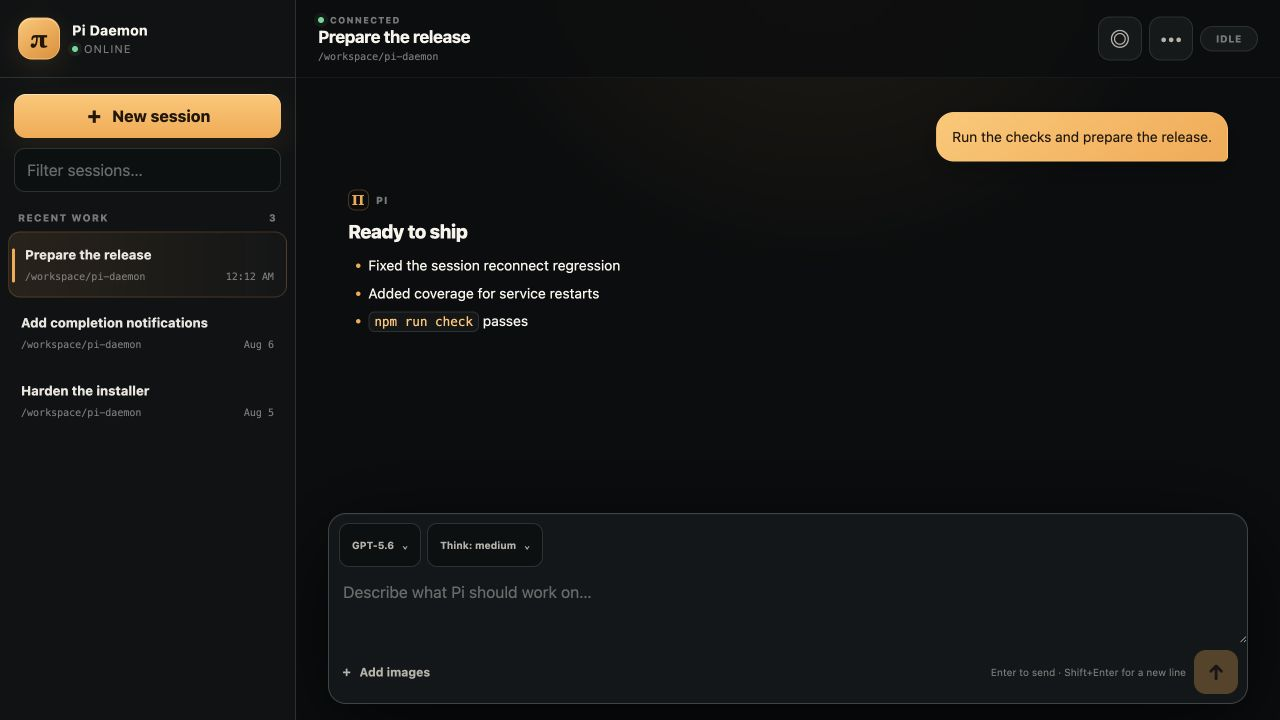
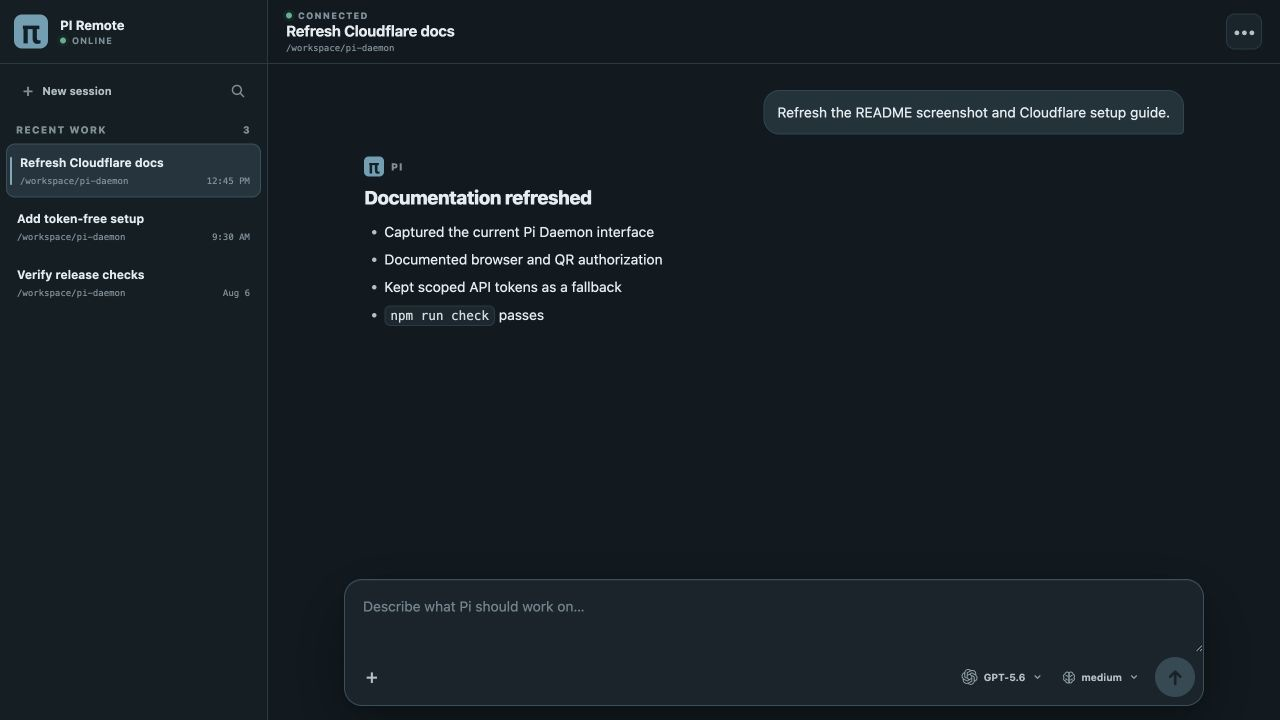
release: prepare v0.1.19

diff --git a/src/cloudflare.ts b/src/cloudflare.ts
@@ -228,6 +228,7 @@ export class CloudflareClient {
   }
 
   private async request<T = unknown>(path: string, init: RequestInit = {}): Promise<T> {
+    const method = init.method || "GET";
     const response = await this.fetcher(`${API_BASE}${path}`, {
       ...init,
       headers: {
@@ -240,11 +241,11 @@ export class CloudflareClient {
     try {
       envelope = await response.json() as ApiEnvelope<T>;
     } catch {
-      throw new CloudflareApiError(response.status, `Cloudflare API returned ${response.status}`);
+      throw new CloudflareApiError(response.status, `${method} ${path}: Cloudflare API returned ${response.status}`);
     }
     if (!response.ok || !envelope.success) {
       const message = envelope.errors?.map((item) => item.message).filter(Boolean).join("; ") || `Cloudflare API returned ${response.status}`;
-      throw new CloudflareApiError(response.status, message);
+      throw new CloudflareApiError(response.status, `${method} ${path}: ${message}`);
     }
     return envelope.result;
   }

diff --git a/test/cloudflare-oauth.test.ts b/test/cloudflare-oauth.test.ts
@@ -60,11 +60,13 @@ describe("Cloudflare OAuth", () => {
       clientId: "eb36f8ba635473b58f875d14bd8656ac",
       relayUrl: "https://pi-daemon-oauth-relay.sasuke688848.workers.dev",
       redirectUri: "https://pi-daemon-oauth-relay.sasuke688848.workers.dev/callback",
+      scopes: ["dns.write", "zone.read", "zone-access.write", "access-acct.write", "argotunnel.write", "account-settings.read"],
     });
     expect(cloudflareOAuthConfig({ PI_DAEMON_CLOUDFLARE_OAUTH_CLIENT_ID: "client" })).toEqual({
       clientId: "client",
       relayUrl: "https://pi-daemon-oauth-relay.sasuke688848.workers.dev",
       redirectUri: "https://pi-daemon-oauth-relay.sasuke688848.workers.dev/callback",
+      scopes: ["dns.write", "zone.read", "zone-access.write", "access-acct.write", "argotunnel.write", "account-settings.read"],
     });
     expect(() => cloudflareOAuthConfig({
       PI_DAEMON_CLOUDFLARE_OAUTH_CLIENT_ID: "client",

diff --git a/src/cloudflare-oauth.ts b/src/cloudflare-oauth.ts
@@ -47,7 +47,10 @@ export function cloudflareOAuthConfig(environment: NodeJS.ProcessEnv = process.e
   const parsedRelay = new URL(relayUrl as string);
   const parsedRedirect = new URL(redirectUri as string);
   if (parsedRelay.protocol !== "https:" || parsedRedirect.protocol !== "https:") throw new Error("Cloudflare OAuth URLs must use HTTPS");
-  const scopes = environment.PI_DAEMON_CLOUDFLARE_OAUTH_SCOPES?.split(/\s+/).filter(Boolean);
+  const configuredScopes = environment.PI_DAEMON_CLOUDFLARE_OAUTH_SCOPES?.trim();
+  const scopes = configuredScopes
+    ? configuredScopes.split(/\s+/).filter(Boolean)
+    : [...CLOUDFLARE_OAUTH_DEFAULTS.scopes];
   return {
     clientId: clientId as string,
     relayUrl: parsedRelay.toString().replace(/\/$/, ""),

diff --git a/test/cloudflare.test.ts b/test/cloudflare.test.ts
@@ -37,7 +37,7 @@ describe("Cloudflare provisioning", () => {
     };
 
     await expect(new CloudflareClient("api-token-secret", fetcher).checkSetupAccess("account-id", "zone-id"))
-      .rejects.toThrow("API token cannot access Access applications: failed");
+      .rejects.toThrow("API token cannot access Access applications: GET /accounts/account-id/access/apps?per_page=5: failed");
   });
 
   it("creates an exact-email OTP policy and token-file-compatible tunnel", async () => {

diff --git a/src/cloudflare-oauth-defaults.ts b/src/cloudflare-oauth-defaults.ts
@@ -7,4 +7,12 @@ export const CLOUDFLARE_OAUTH_DEFAULTS = {
   clientId: "eb36f8ba635473b58f875d14bd8656ac",
   relayUrl: "https://pi-daemon-oauth-relay.sasuke688848.workers.dev",
   redirectUri: "https://pi-daemon-oauth-relay.sasuke688848.workers.dev/callback",
+  scopes: [
+    "dns.write",
+    "zone.read",
+    "zone-access.write",
+    "access-acct.write",
+    "argotunnel.write",
+    "account-settings.read",
+  ],
 } as const;

diff --git a/src/version.ts b/src/version.ts
@@ -1,4 +1,4 @@
-export const VERSION = "0.1.18";
+export const VERSION = "0.1.19";
 export const PROTOCOL_VERSION = 1 as const;
 export const PI_VERSION = "0.84.1";
 export const CLOUDFLARED_VERSION = "2026.7.3";

diff --git a/README.md b/README.md
@@ -4,6 +4,8 @@ Pi Daemon runs the [Pi coding agent](https://github.com/earendil-works/pi) in a 
 
 ![Pi Daemon web interface](.github/assets/pi-daemon-web.jpg)
 
+_Current desktop layout. On mobile, the same session list is available from a drawer._
+
 > **Security:** An authenticated mobile user can invoke Pi's coding tools, execute commands, and modify files without per-action confirmation. Limit access to the intended Tailscale login or Cloudflare email, protect that identity, and do not run the service on a machine you are unwilling to control remotely.
 
 ## One-line installation
@@ -56,15 +58,48 @@ pi-daemon uninstall --delete-cloudflare
 
 The default uninstall removes Pi Daemon services and runtime configuration, and disables the Pi Daemon Tailscale Serve listener when it is active. It preserves `~/.pi/agent` authentication and sessions and leaves Cloudflare resources intact. If reinstall choices were saved, uninstall asks whether to preserve or forget them. Deleting Cloudflare resources requires the explicit flag, confirmation, and a fresh browser authorization.
 
-## Tailscale Serve (recommended for private access)
+## Cloudflare Tunnel (default)
 
-Install Tailscale separately and sign in on both the Pi Daemon host and the device that will open the PWA. During `pi-daemon setup`, choose **Tailscale Serve** and confirm the exact Tailscale login allowed to use Pi Daemon. The wizard detects the host's MagicDNS name and configures a persistent HTTPS listener on port 443 forwarding to `http://127.0.0.1:8504`.
+Choose Cloudflare when Pi Daemon needs a public hostname without opening an inbound port. You need a Cloudflare account with an active DNS zone, permission to manage that account and zone, and access to the inbox for the one email address that will be allowed through Access.
 
-Tailscale keeps this URL private to the tailnet. Pi Daemon verifies the exact MagicDNS host and `Tailscale-User-Login` identity header. Tailscale Serve removes spoofed copies of its identity headers before forwarding, while Pi Daemon's backend remains loopback-only. MagicDNS and Tailscale HTTPS must be enabled for the tailnet. If HTTPS consent is required, the Tailscale CLI will guide setup through it.
+### Setup
 
-Pi Daemon will show existing Serve configuration and require confirmation before replacing the root HTTPS port 443 route. `pi-daemon logs tunnel` displays the current Serve status, `pi-daemon restart tunnel` reapplies the route, and uninstall disables that listener. Other Tailscale services and tailnet configuration are not modified.
+1. Run the installer, or rerun `pi-daemon setup`, and choose **Cloudflare Tunnel**.
+2. Open the displayed authorization link in any browser or scan its QR code from another device. Sign in to Cloudflare, review the requested permissions, and authorize Pi Daemon. This works even when setup is running on a headless board.
+3. Select the Cloudflare account and DNS zone when more than one is available.
+4. Accept the default `pi.<zone>` hostname or enter another unused hostname in that zone, then enter the one exact email address allowed to use Pi Daemon.
+5. Choose whether to remember the non-secret setup choices for a future reinstall. The wizard then provisions the Cloudflare resources and installs a dedicated user-level `cloudflared` connector.
+6. Open the displayed mobile URL, enter the allowed email address, and use the One-time PIN sent by Cloudflare.
 
-## Manual Cloudflare API token fallback
+The wizard creates or validates:
+
+- A Zero Trust organization, if the account does not already have one
+- A One-time PIN identity provider, if one is not already configured
+- One remotely managed tunnel with ingress to `http://127.0.0.1:8504`
+- One proxied CNAME for the selected hostname
+- One self-hosted Access application with a 24-hour session
+- One Allow policy that includes only the exact email and requires the One-time PIN login method
+
+New Zero Trust organizations may use Cloudflare's own identity provider by default; Pi Daemon still creates or reuses One-time PIN and makes it the only login method for this application. The origin remains loopback-only, and `cloudflared` makes an outbound connection to Cloudflare, so no router port forwarding is required.
+
+The CLI uses Authorization Code with PKCE. The callback relay holds only the short-lived authorization code, while the PKCE verifier and polling secret stay on the Pi Daemon host. The temporary Cloudflare access token is revoked when setup finishes. Reinstall metadata stores resource IDs and user selections but no OAuth authorization. The long-lived tunnel connector token is written to a mode-0600 file and supplied to `cloudflared` with [`--token-file`](https://developers.cloudflare.com/tunnel/advanced/run-parameters/#token-file), rather than appearing on the process command line.
+
+Matching resources recorded by an earlier setup can be reused. Pi Daemon refuses to overwrite conflicting DNS records or Access applications. A same-named, remotely managed tunnel left by an older uninstall or interrupted setup can be adopted only after an explicit default-No confirmation, and its DNS and exact-email Access policy must still match.
+
+### Verify and troubleshoot
+
+```sh
+pi-daemon status
+pi-daemon doctor
+pi-daemon logs tunnel
+pi-daemon restart tunnel
+```
+
+If the Access login email does not arrive, confirm that the address exactly matches setup and allowlist `noreply@notify.cloudflare.com` in any mail-security service. Cloudflare One-time PINs expire after 10 minutes, are single-use, and a newly requested PIN invalidates the previous one. See Cloudflare's [One-time PIN login guide](https://developers.cloudflare.com/cloudflare-one/integrations/identity-providers/one-time-pin/) for current login behavior.
+
+The normal uninstall leaves the Cloudflare tunnel, CNAME, and Access application in place. Use `pi-daemon uninstall --delete-cloudflare` to remove the exact managed resources after a fresh browser authorization and confirmation. If the connector token is ever exposed, rotate it in Cloudflare before starting the connector again.
+
+### Manual API token fallback
 
 Browser OAuth is the default. Manual token entry remains available when the release has no OAuth client configured, the callback service is unavailable, or an account administrator has disabled public OAuth applications. If a Cloudflare API token has been exposed, **immediately revoke the exposed token** under **Cloudflare > My Profile > API Tokens**. Do not reuse or retry an exposed token.
 
@@ -90,7 +125,13 @@ Set the token's resource scopes explicitly:
 
 This scoped token is only a fallback because `cloudflared`'s own browser login cannot configure the Access application and exact-email policy. Pi Daemon does not add newly entered manual tokens to the reinstall memo. Older memos containing a saved token remain readable for migration and lose the token the next time choices are saved.
 
-The wizard creates or validates one remotely managed tunnel, one proxied CNAME, one self-hosted Access application, and an Allow policy containing the exact email plus a required One-time PIN login method. Reinstall metadata retains the managed resource IDs. If an older uninstall or interrupted setup left a same-named remote tunnel without those IDs, setup can reuse it only after an explicit default-No confirmation and still refuses conflicting DNS or Access resources.
+## Tailscale Serve (recommended for private access)
+
+Install Tailscale separately and sign in on both the Pi Daemon host and the device that will open the PWA. During `pi-daemon setup`, choose **Tailscale Serve** and confirm the exact Tailscale login allowed to use Pi Daemon. The wizard detects the host's MagicDNS name and configures a persistent HTTPS listener on port 443 forwarding to `http://127.0.0.1:8504`.
+
+Tailscale keeps this URL private to the tailnet. Pi Daemon verifies the exact MagicDNS host and `Tailscale-User-Login` identity header. Tailscale Serve removes spoofed copies of its identity headers before forwarding, while Pi Daemon's backend remains loopback-only. MagicDNS and Tailscale HTTPS must be enabled for the tailnet. If HTTPS consent is required, the Tailscale CLI will guide setup through it.
+
+Pi Daemon will show existing Serve configuration and require confirmation before replacing the root HTTPS port 443 route. `pi-daemon logs tunnel` displays the current Serve status, `pi-daemon restart tunnel` reapplies the route, and uninstall disables that listener. Other Tailscale services and tailnet configuration are not modified.
 
 ## Completion notifications
 

diff --git a/oauth-relay/README.md b/oauth-relay/README.md
@@ -2,43 +2,58 @@
 
 This Worker bridges Cloudflare's browser redirect back to a headless `pi-daemon setup` process. It stores an authorization code for at most five minutes in a Durable Object. The CLI keeps both the PKCE verifier and a separate polling secret, so the relay cannot exchange the code for a Cloudflare access token.
 
-## One-time deployment
+## Deploy the relay
 
-1. Install and deploy the Worker:
+1. Install the pinned Wrangler dependency, sign in when prompted, and deploy the Worker and Durable Object:
 
    ```sh
    npm install
    npm run deploy
    ```
 
-2. Give the Worker a stable HTTPS custom domain, such as `https://connect.example.com`.
+2. Give the Worker a stable HTTPS custom domain, such as `https://connect.example.com`, and verify that `https://connect.example.com/healthz` returns `{"ok":true}`. Keep this hostname stable after publishing a release because released CLIs contain the relay and redirect URLs.
 
-3. In **Cloudflare > Manage Account > OAuth clients**, create a client with:
+## Register the OAuth client
 
-   - Response type: Authorization Code
-   - Grant type: Authorization Code
-   - Token authentication method: None
-   - PKCE: S256
-   - Redirect URL: `https://connect.example.com/callback`
-   - Public visibility, after verifying the client URL domain
+In **Cloudflare > Manage Account > OAuth clients**, create a client for a browser, desktop, or CLI application. Cloudflare's current [OAuth client guide](https://developers.cloudflare.com/fundamentals/oauth/create-an-oauth-client/) requires a client name, logo, client URL, and scopes before a client can be public.
 
-4. Select the permissions Pi Daemon already needs:
+Configure:
 
-   - Account Settings Read
-   - Cloudflare Tunnel Write
-   - Access: Apps and Policies Write
-   - Access: Organizations, Identity Providers, and Groups Write
-   - Zone Read
-   - DNS Write
+- Response type and grant type: Authorization Code
+- Token endpoint authentication method: None
+- PKCE: required, using S256
+- Redirect URL: `https://connect.example.com/callback`
+- A client URL on a domain you control
 
-5. Put the public client metadata in `src/cloudflare-oauth-defaults.ts` before building a release. For development, the same fields can be overridden without rebuilding:
+Select these scopes:
 
-   ```sh
-   export PI_DAEMON_CLOUDFLARE_OAUTH_CLIENT_ID='...'
-   export PI_DAEMON_CLOUDFLARE_OAUTH_RELAY_URL='https://connect.example.com'
-   export PI_DAEMON_CLOUDFLARE_OAUTH_REDIRECT_URI='https://connect.example.com/callback'
-   ```
+- Account Settings Read
+- Cloudflare Tunnel Write
+- Access: Apps and Policies Write
+- Access: Organizations, Identity Providers, and Groups Write
+- Zone Read
+- DNS Write
 
-`PI_DAEMON_CLOUDFLARE_OAUTH_SCOPES` may optionally contain the registered OAuth scope IDs separated by spaces. When omitted, Cloudflare uses the scopes registered on the client.
+New clients are private. A private client can be used only by members of the Cloudflare account that owns it. Before making the client public, complete Cloudflare's client-URL domain verification. Changing visibility to public is permanent, so verify the redirect URL and scopes first.
+
+## Configure Pi Daemon
+
+Put the public client metadata in `src/cloudflare-oauth-defaults.ts` before building a release. The client ID and URLs are public metadata; do not add a client secret because this is a PKCE public client.
+
+For development, override the release defaults without editing the source:
+
+```sh
+export PI_DAEMON_CLOUDFLARE_OAUTH_CLIENT_ID='...'
+export PI_DAEMON_CLOUDFLARE_OAUTH_RELAY_URL='https://connect.example.com'
+export PI_DAEMON_CLOUDFLARE_OAUTH_REDIRECT_URI='https://connect.example.com/callback'
+```
+
+`PI_DAEMON_CLOUDFLARE_OAUTH_SCOPES` may override the OAuth scope IDs with a space-separated list. When omitted, the CLI sends the scope IDs in `src/cloudflare-oauth-defaults.ts`; keep that list synchronized with the public client's registered scopes.
+
+Run `pi-daemon setup` against a test account and zone before publishing. Confirm that the consent page lists the intended scopes, the terminal continues after the browser reports **Cloudflare connected**, and the setup token is revoked at completion.
+
+## Security model
 
 The Worker stores no access tokens, refresh tokens, PKCE verifiers, API tokens, account IDs, zone IDs, email addresses, or tunnel credentials. It returns `204` while authorization is pending and deletes each session when the CLI consumes it or its five-minute alarm expires.
+
+The relay receives only the authorization code and cannot exchange it by itself: the CLI retains the per-attempt PKCE verifier. Polling and deletion also require a separate random secret whose SHA-256 hash is stored by the Durable Object. API responses disable caching; callback pages also disable framing, MIME sniffing, and referrer disclosure.
